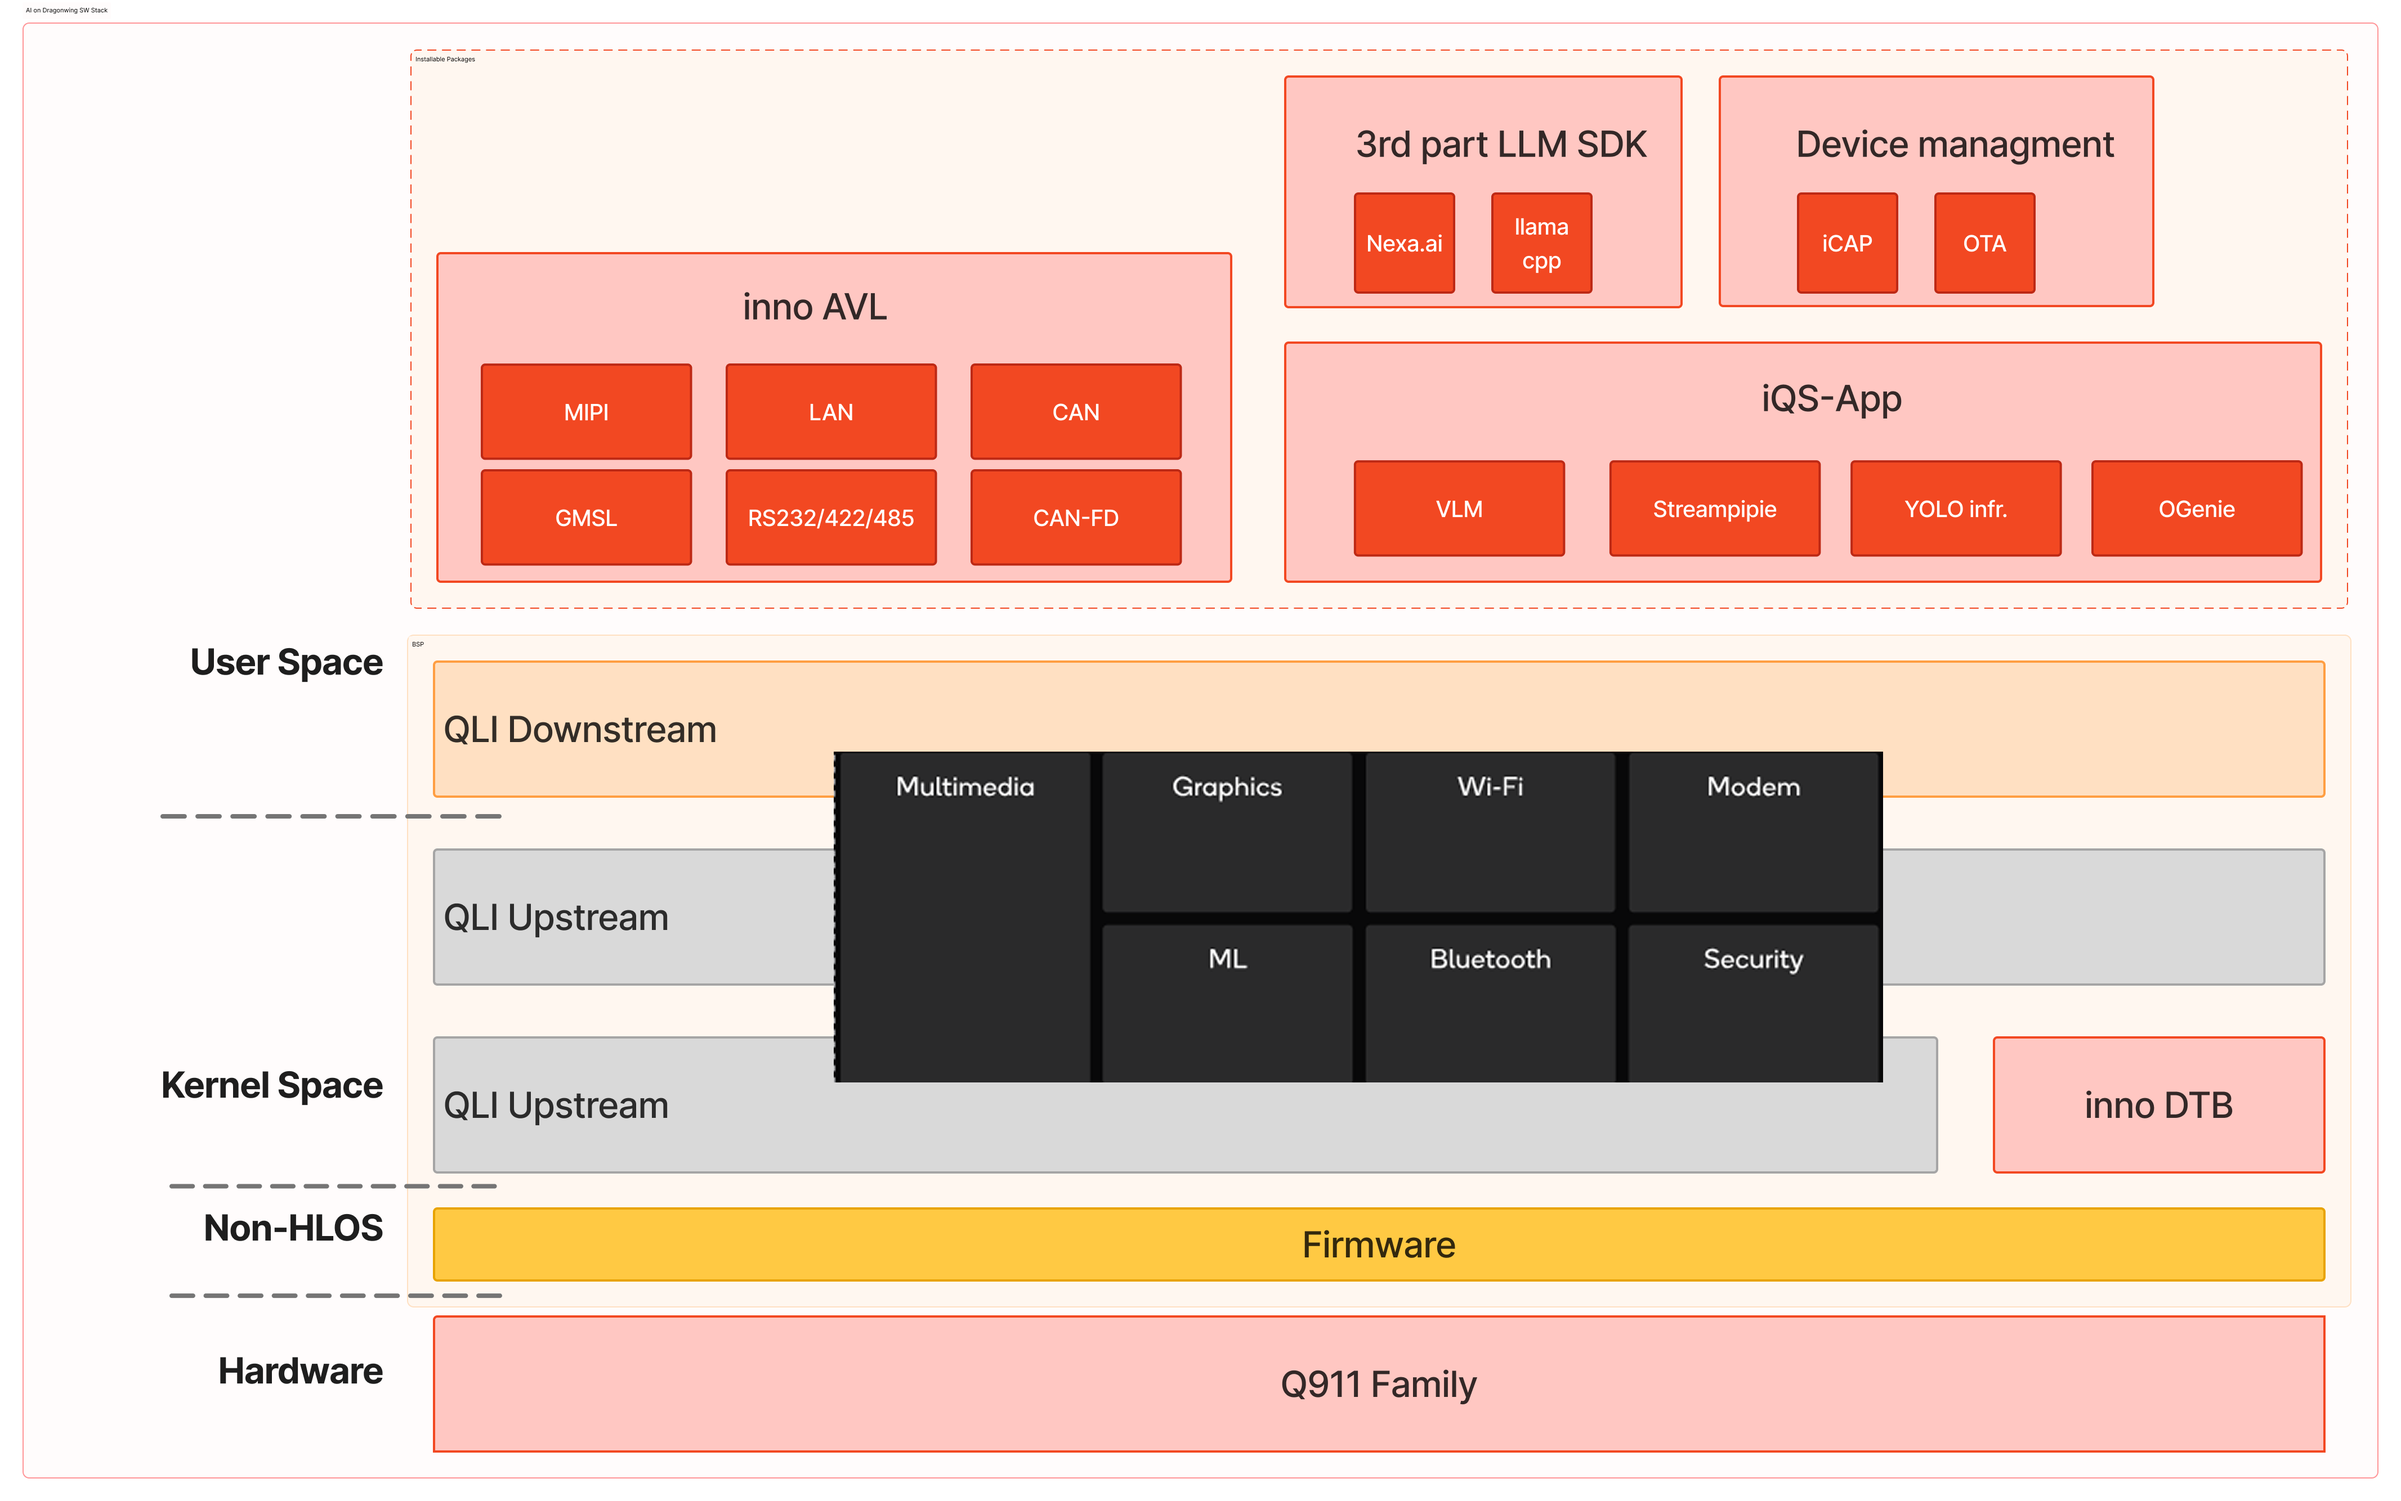
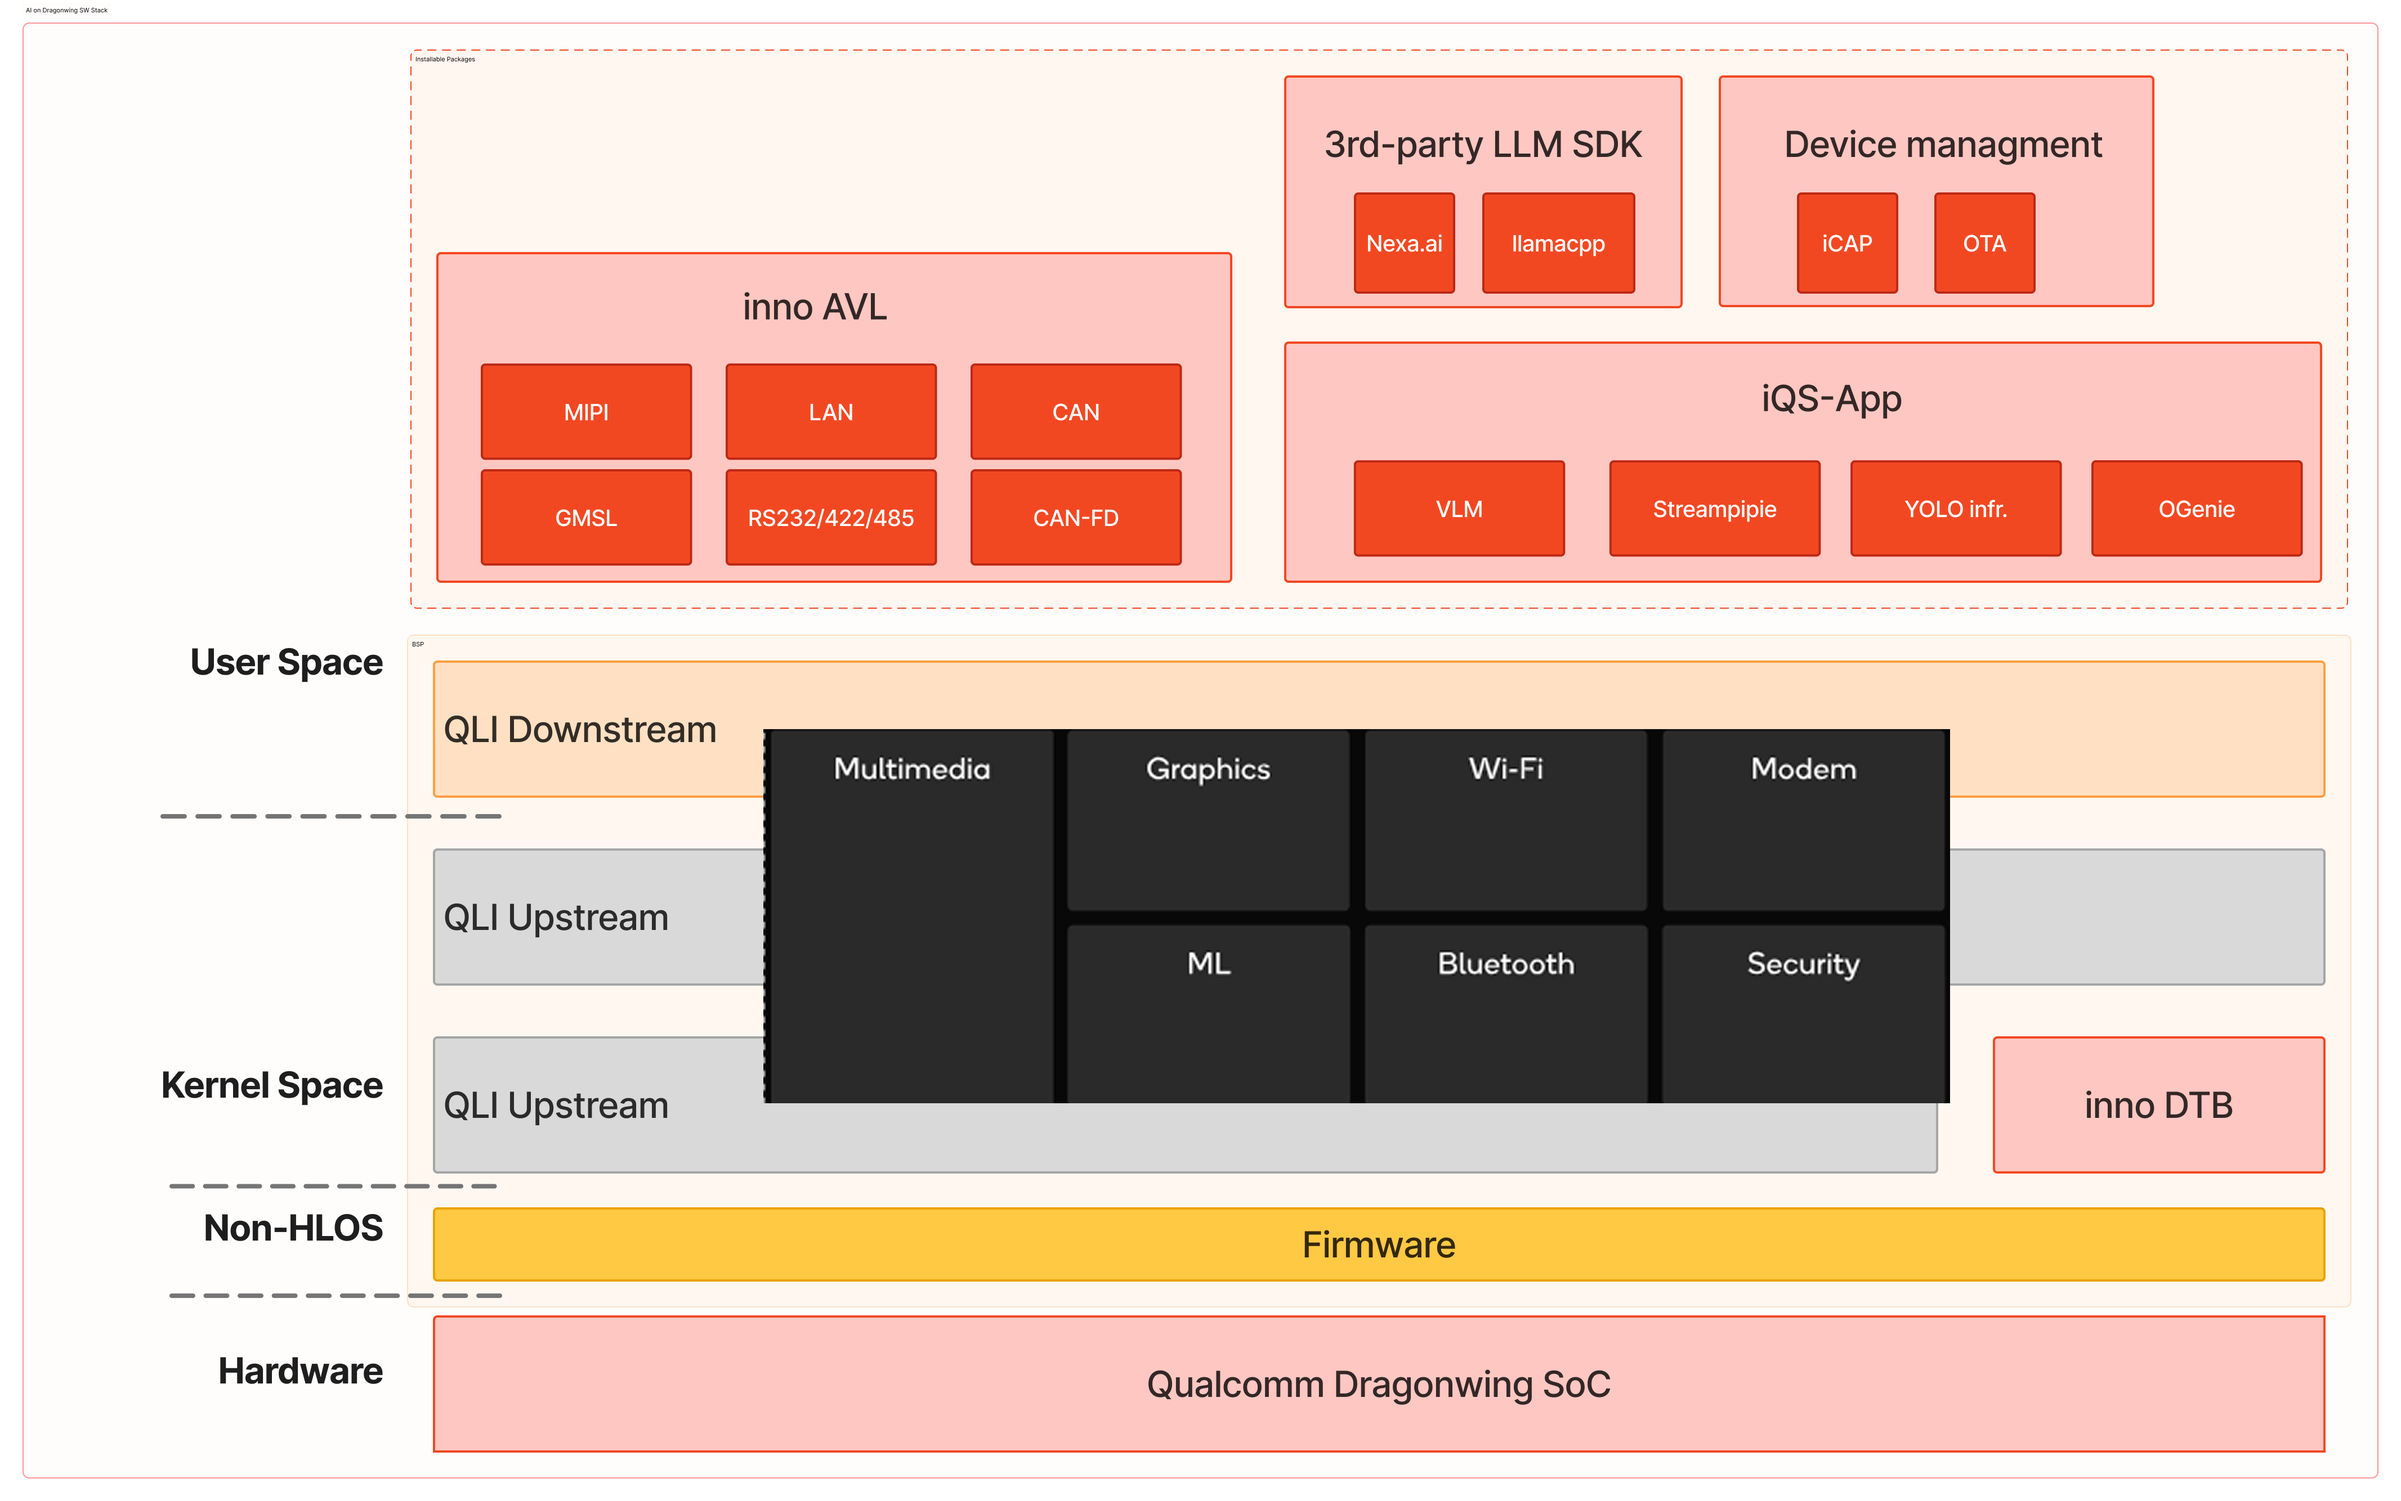
feat: Add Q911 platform quick start guide and update Qualcomm Dragonwing SoC reference.

diff --git a/README.md b/README.md
@@ -14,6 +14,9 @@
 
   <h3 align="center">It helps users quickly understand, explore, and prototype ideas by showcasing the platform’s performance and capabilities—inspiring innovation through hands-on experience.</h3>
 
+> [!NOTE]
+> iQ-Studio is suitable for a range of products developed based on the [Innodisk Qualcomm Dragonwing SoC](https://www.innodisk.com/en/news/innodisk-unveils-ai-on-dragonwing-computing-series).
+
 
 # Core Software Stack & Architecture
 
@@ -23,9 +26,9 @@ iQ-Studio is built upon a robust edge AI software stack, bridging the gap betwee
 <div align="center"><img width="80%" height="80%" src="./docs/fig/ai_on_dragonwing_sw_stack.png"></div>
 <br />
 
-- **Hardware & Firmware**: Qualcomm Q911 SoC and low-level firmware.
-- **Kernel Space**: Powered by [Qualcomm Linux](https://www.qualcomm.com/developer/software/qualcomm-linux), integrated with our custom Inno DTB/drivers and Yocto environments.
-- **User Space**: Seamlessly supports 3rd-party LLM SDKs, device management (iCAP), and inno AVL. At the very top sits the **iQS-App layer** (VLM, Streampipe, YOLO, OGenie).
+- **Hardware & Firmware**: [Qualcomm Dragonwing QCS9075 SoC](https://www.innodisk.com/en/products/computing/qualcomm-solution/exmp-q911) and low-level firmware.
+- **Kernel Space**: Powered by [Qualcomm Linux](https://www.qualcomm.com/developer/software/qualcomm-linux), integrated with our custom Inno DTB/drivers and Yocto environments. 
+- **User Space**: Seamlessly supports 3rd-party LLM SDKs, device management ([iCAP](https://www.innodisk.com/en/products/software-icap)), and inno AVL. At the very top sits the **[iQS-App layer](./README.md#explore-documentation--resources)** (VLM, Streampipe, YOLO, OGenie).
 
 ### Qualcomm Linux (QLI) Version Mapping
 
@@ -45,7 +48,9 @@ We ensure a continuous and stable pipeline—from upstream Linux/Yocto projects 
 
 <br />
 <div align="center"><img width="80%" height="80%" src="./docs/fig/sw_development_pipeline.png"></div>
-<br />
+<br />  
+
+We also provide integrated and supplied [Ubuntu images](https://ubuntu.com/download/qualcomm-iot#evaluation-kit) for development.
 
 # How to Deploy iQ Studio?
 
@@ -82,7 +87,7 @@ cd iQ-Studio
 
 For example, If you want to run the [iQ-VLM](./tutorials/applications/iqs-vlm/README.md). You just need two command run the interative real-time demo.
 
-Launch OGenie API server.
+Launch the OGenie API server:
 ```bash
 $ iqs-launcher --autotag iqs-ogenie
 ```
@@ -96,11 +101,11 @@ This is provides a real-time display of VLM predictions, allowing you to quickly
 <div align="center"><img width="100%" height="100%" src="./tutorials/applications/iqs-vlm/fig/vlm-demo.gif"></div>
 <br />
 
-For other applications, please refer to the [application section below](#application).
+For other applications, please refer to the [documentation section below](#explore-documentation--resources).
 
-## Application
+## Explore Documentation & Resources
 
-iQ Studio applications are grouped into categories based on functionality:
+iQ Studio resources are grouped into categories based on functionality:
 
 
 <table>

diff --git a/IQS.md b/IQS.md
@@ -4,7 +4,7 @@ This document serves as the supreme principle manual for iterating and developin
 
 ## 1. Core Philosophy
 
-- **Show Performance, Spark Imagination**: The primary goal of iQ-Studio is to help users quickly understand and explore AI capabilities on edge hardware (e.g., Jetson, Qualcomm QCS9075). All development should align with making this experience seamless and inspiring.
+- **Show Performance, Spark Imagination**: The primary goal of iQ-Studio is to help users quickly understand and explore AI capabilities on edge hardware (e.g., Jetson, Qualcomm Dragonwing QCS9075). All development should align with making this experience seamless and inspiring.
 - **Technical Context as a Bridge**: Provide clear documentation of the software stack (SW Stack). Bridging the gap between BSP/Firmware and high-level AI applications is essential for user trust and technical clarity.
 - **Simplicity & User Experience (UX)**: Ensure the execution commands remain as simple as `./install.sh` and `iqs-launcher --autotag ...` or `--ipk ...`. Hide complex environment setups (like BSP version checking) behind robust scripts.
 - **Documentation is a First-Class Citizen**: High-quality `README.md` files with clear instructions, tables, and images/GIFs are essential. Contributions without proper documentation are incomplete.
@@ -24,7 +24,7 @@ When adding new features or applications, strictly adhere to the existing direct
 - `mod/`: Python backend for `iqs-launcher`. Contains the logical modules for `autotag`, `run`, `ipk`, and `utils`.
 - **Root Scripts**: `iqs-launcher.sh` (entry point), `launcher.py` (main logic), `install.sh` (setup).
 
-**Rule**: Any new application or benchmark must be categorized, linked in the main `README.md` table, and have its own dedicated, detailed `README.md`.
+**Rule**: Any new application or benchmark must be categorized, linked in the main `README.md` resource table (under **Explore Documentation & Resources**), and have its own dedicated, detailed `README.md`.
 
 ## 3. Technical Standards
 
@@ -45,6 +45,7 @@ When adding new features or applications, strictly adhere to the existing direct
 - **Core README Structure**:
     - Every root or major component `README.md` must feature a **`Core Software Stack & Architecture`** section with layered diagrams (HW -> Kernel/QLI -> App).
     - Environment setup and repository installation must be titled **`How to Deploy`**.
+    - **`Explore Documentation & Resources`** is the central hub for tutorials, SDKs, benchmarks, and vertical scenario demos (replaces the narrower "Application" or "Tutorials" labels).
     - **`How to Use`** is reserved for high-level interaction, application execution, or future prompt/MCP features.
     - Version mapping tables (Linux Kernel vs Yocto vs QLI) are mandatory for major platform updates.
 

diff --git a/tutorials/starting-guides/q911/README.md b/tutorials/starting-guides/q911/README.md
@@ -5,8 +5,8 @@ The Q911 family is built around the Qualcomm® IQ-9075 SoC. The product line cur
 
 | **Model** | **P/N** | **Description** | **Packing List** |
 | --- | --- | --- | --- |
-| EXMP-Q911 | EXMP-Q911-00A1-W1 | COM-HPC Mini Module By Qualcomm IQ-9075 | 1x IQ9 COM-HPC Mini Module <br/> 1x Cooler with Fan (secured onto the module) |
-| EXEC-Q911 | EXEC-Q911-00A1-W1 | COM-HPC Mini EVK By Qualcomm IQ-9075| 1x IQ9 COM-HPC Mini Module <br/> 1x 3.5” COM-HPC Mini Carrier (secured with the module) <br/> 1x Cooler with Fan (secured onto the module) <br/> 1x 60W power adapter <br/> 1x US power cord <br/> 1x Speaker*2 cable <br/> 1x D-SUB(F) cable (GPIO) <br/> 1x D-SUB(M) cable (CAN FD) <br/> 1x USB 2.0 A-TYPE(F)*2 cable <br/> 1x D-SUB(M) cable (COM) |
+| [EXMP-Q911](https://www.innodisk.com/en/products/computing/qualcomm-solution/exmp-q911) | EXMP-Q911-00A1-W1 | COM-HPC Mini Module By Qualcomm IQ-9075 | 1x IQ9 COM-HPC Mini Module <br/> 1x Cooler with Fan (secured onto the module) |
+| [EXEC-Q911](https://www.innodisk.com/en/products/computing/qualcomm-solution/exec-q911) | EXEC-Q911-00A1-W1 | COM-HPC Mini EVK By Qualcomm IQ-9075| 1x IQ9 COM-HPC Mini Module <br/> 1x 3.5” COM-HPC Mini Carrier (secured with the module) <br/> 1x Cooler with Fan (secured onto the module) <br/> 1x 60W power adapter <br/> 1x US power cord <br/> 1x Speaker*2 cable <br/> 1x D-SUB(F) cable (GPIO) <br/> 1x D-SUB(M) cable (CAN FD) <br/> 1x USB 2.0 A-TYPE(F)*2 cable <br/> 1x D-SUB(M) cable (COM) |
 | APEX-A100 | EXOC-Q911-00A1-W1 | Edge AI System By Qualcomm IQ-9075| 1x Fanless Edge AI System based on EXMP-Q911 module <br/> 1x 60W power adapter <br/> 1x US power cord |
 
 This guide focuses on the EXEC-Q911 and APEX-A100 platforms, providing an overview of their hardware and helping you get the system up and running quickly.
@@ -224,7 +224,7 @@ If you are accessing the system using UART debug console to interact with the sy
 
 Depending on your needs:
 
-- [iQ-Studio](../../../README.md#application): It helps users quickly understand, explore, and prototype ideas by showcasing the platform’s performance and capabilities—inspiring innovation through hands-on experience.
+- [iQ-Studio](../../../README.md#explore-documentation--resources): It helps users quickly understand, explore, and prototype ideas by showcasing the platform’s performance and capabilities—inspiring innovation through hands-on experience.
 
 - [Application](../../applications/) — Reference ready-to-run demos illustrating how to build applications on the platform.
 
